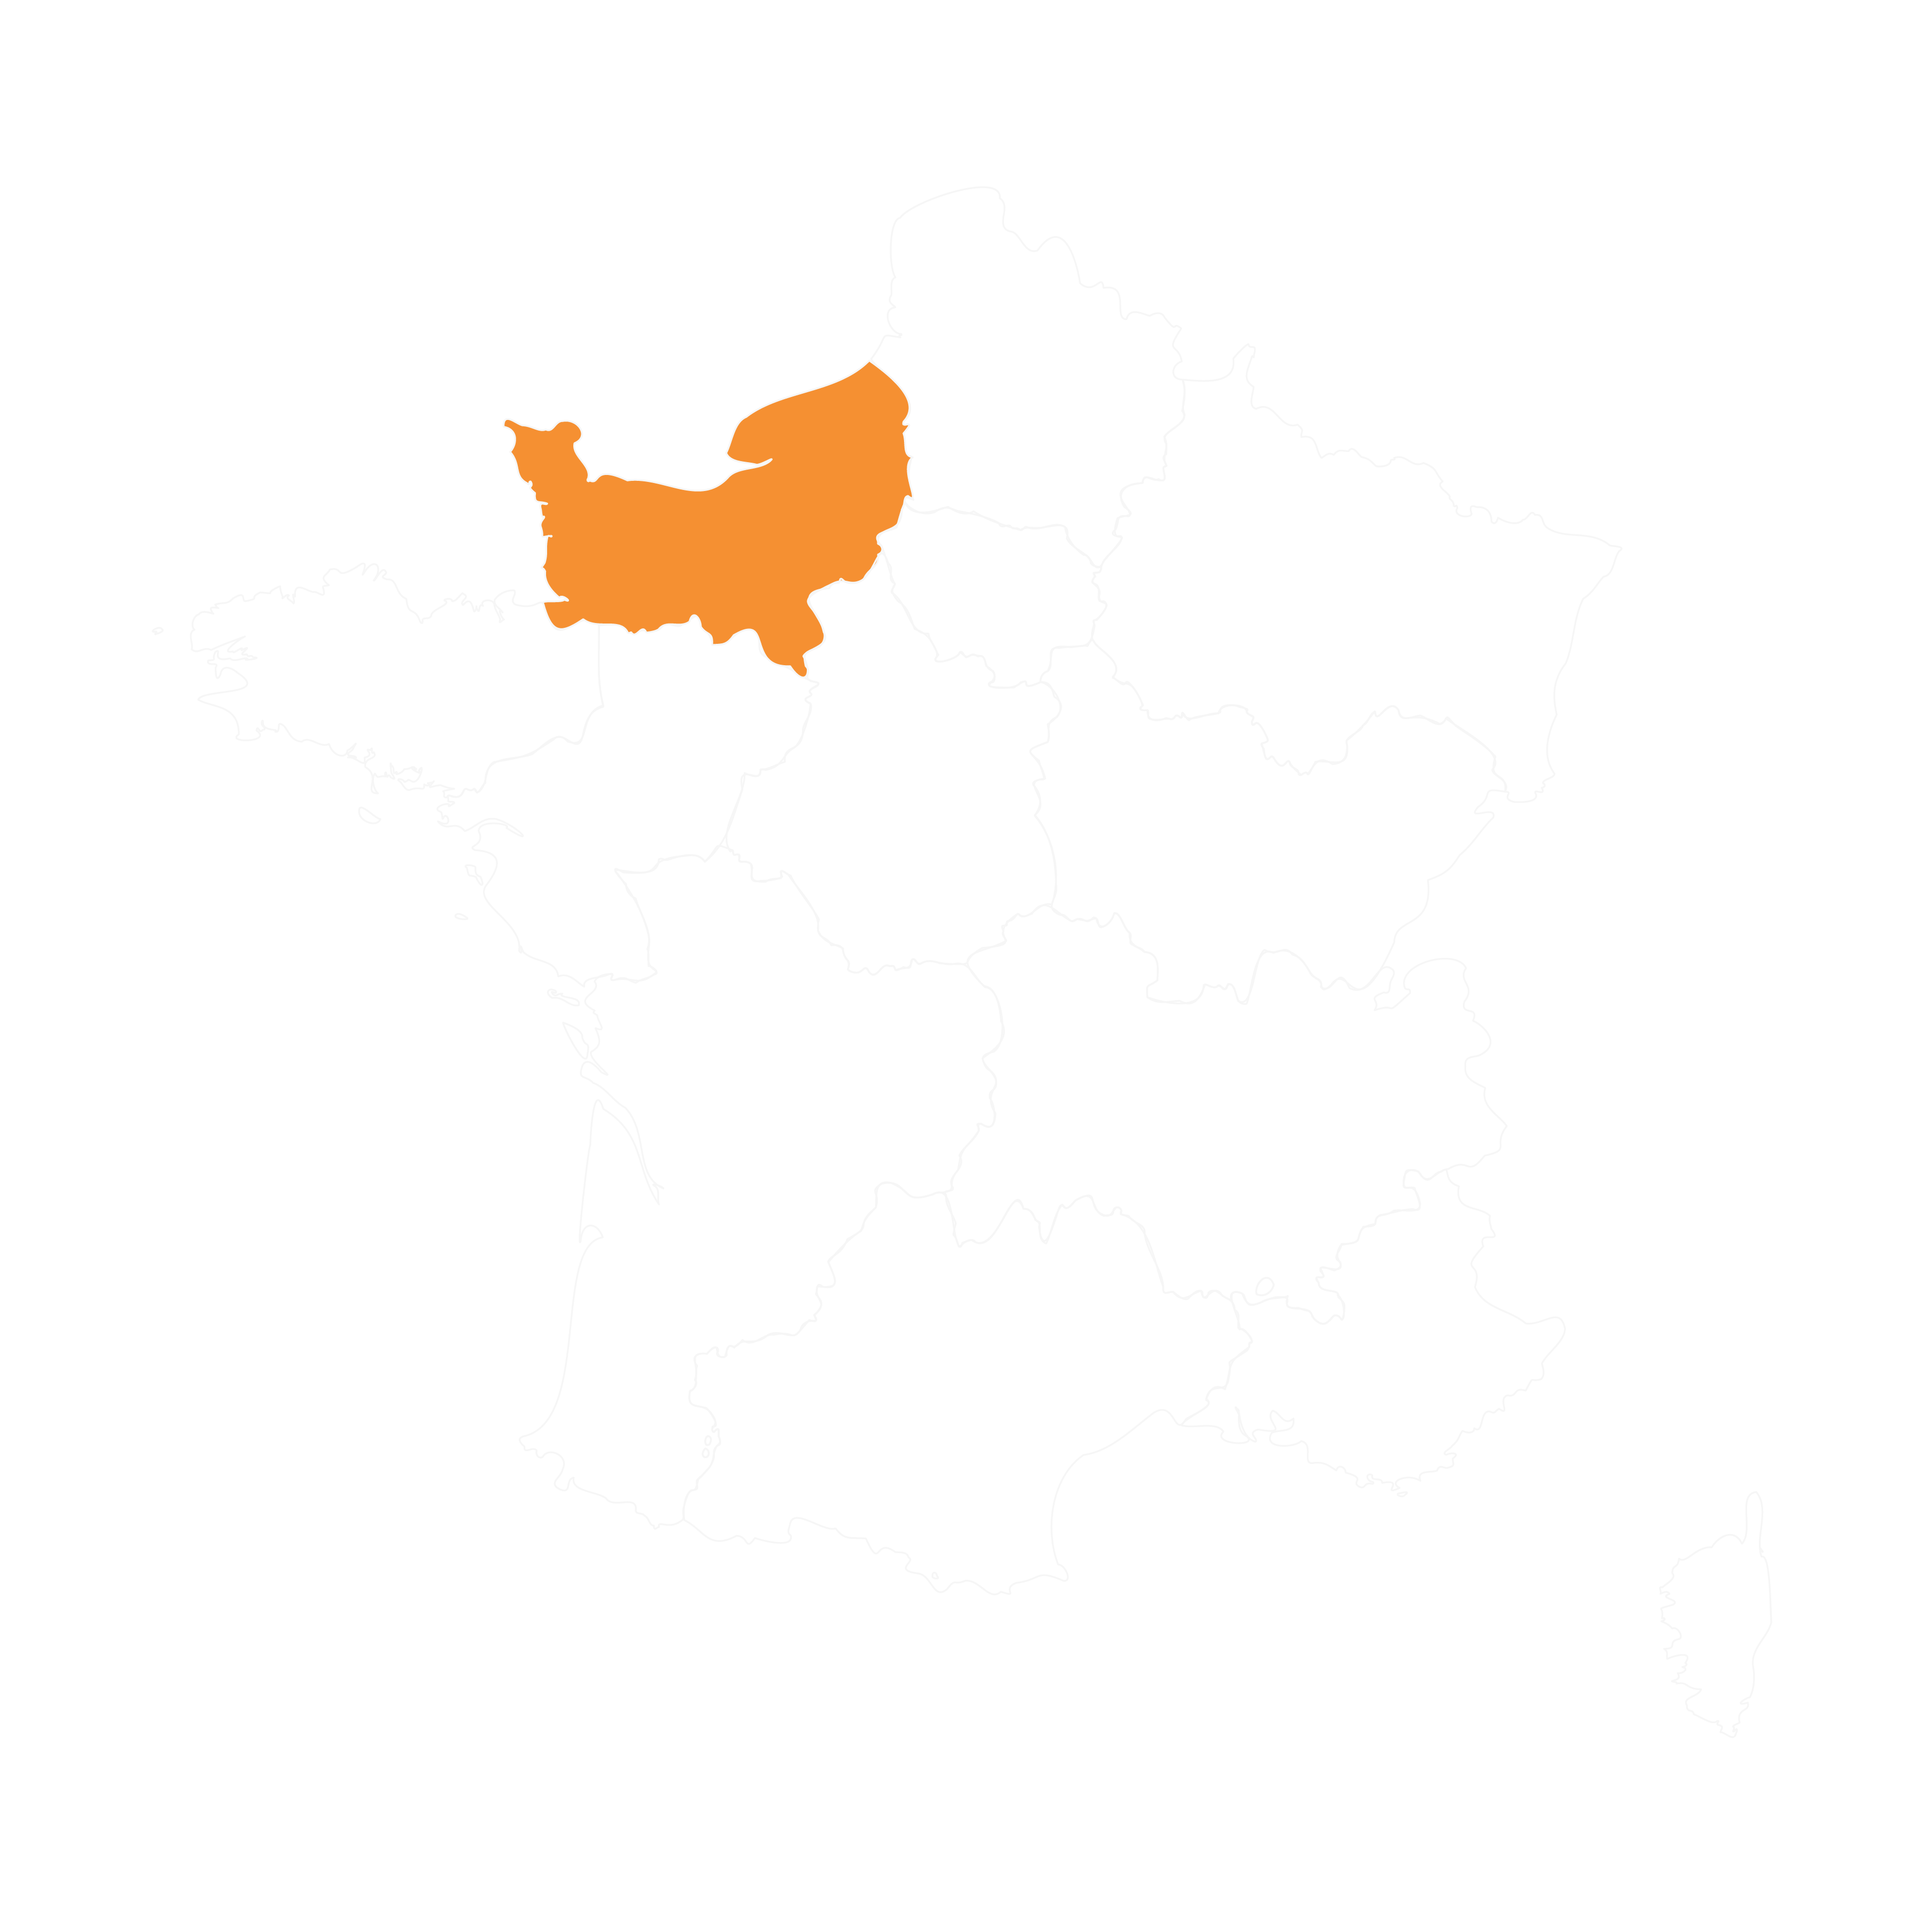
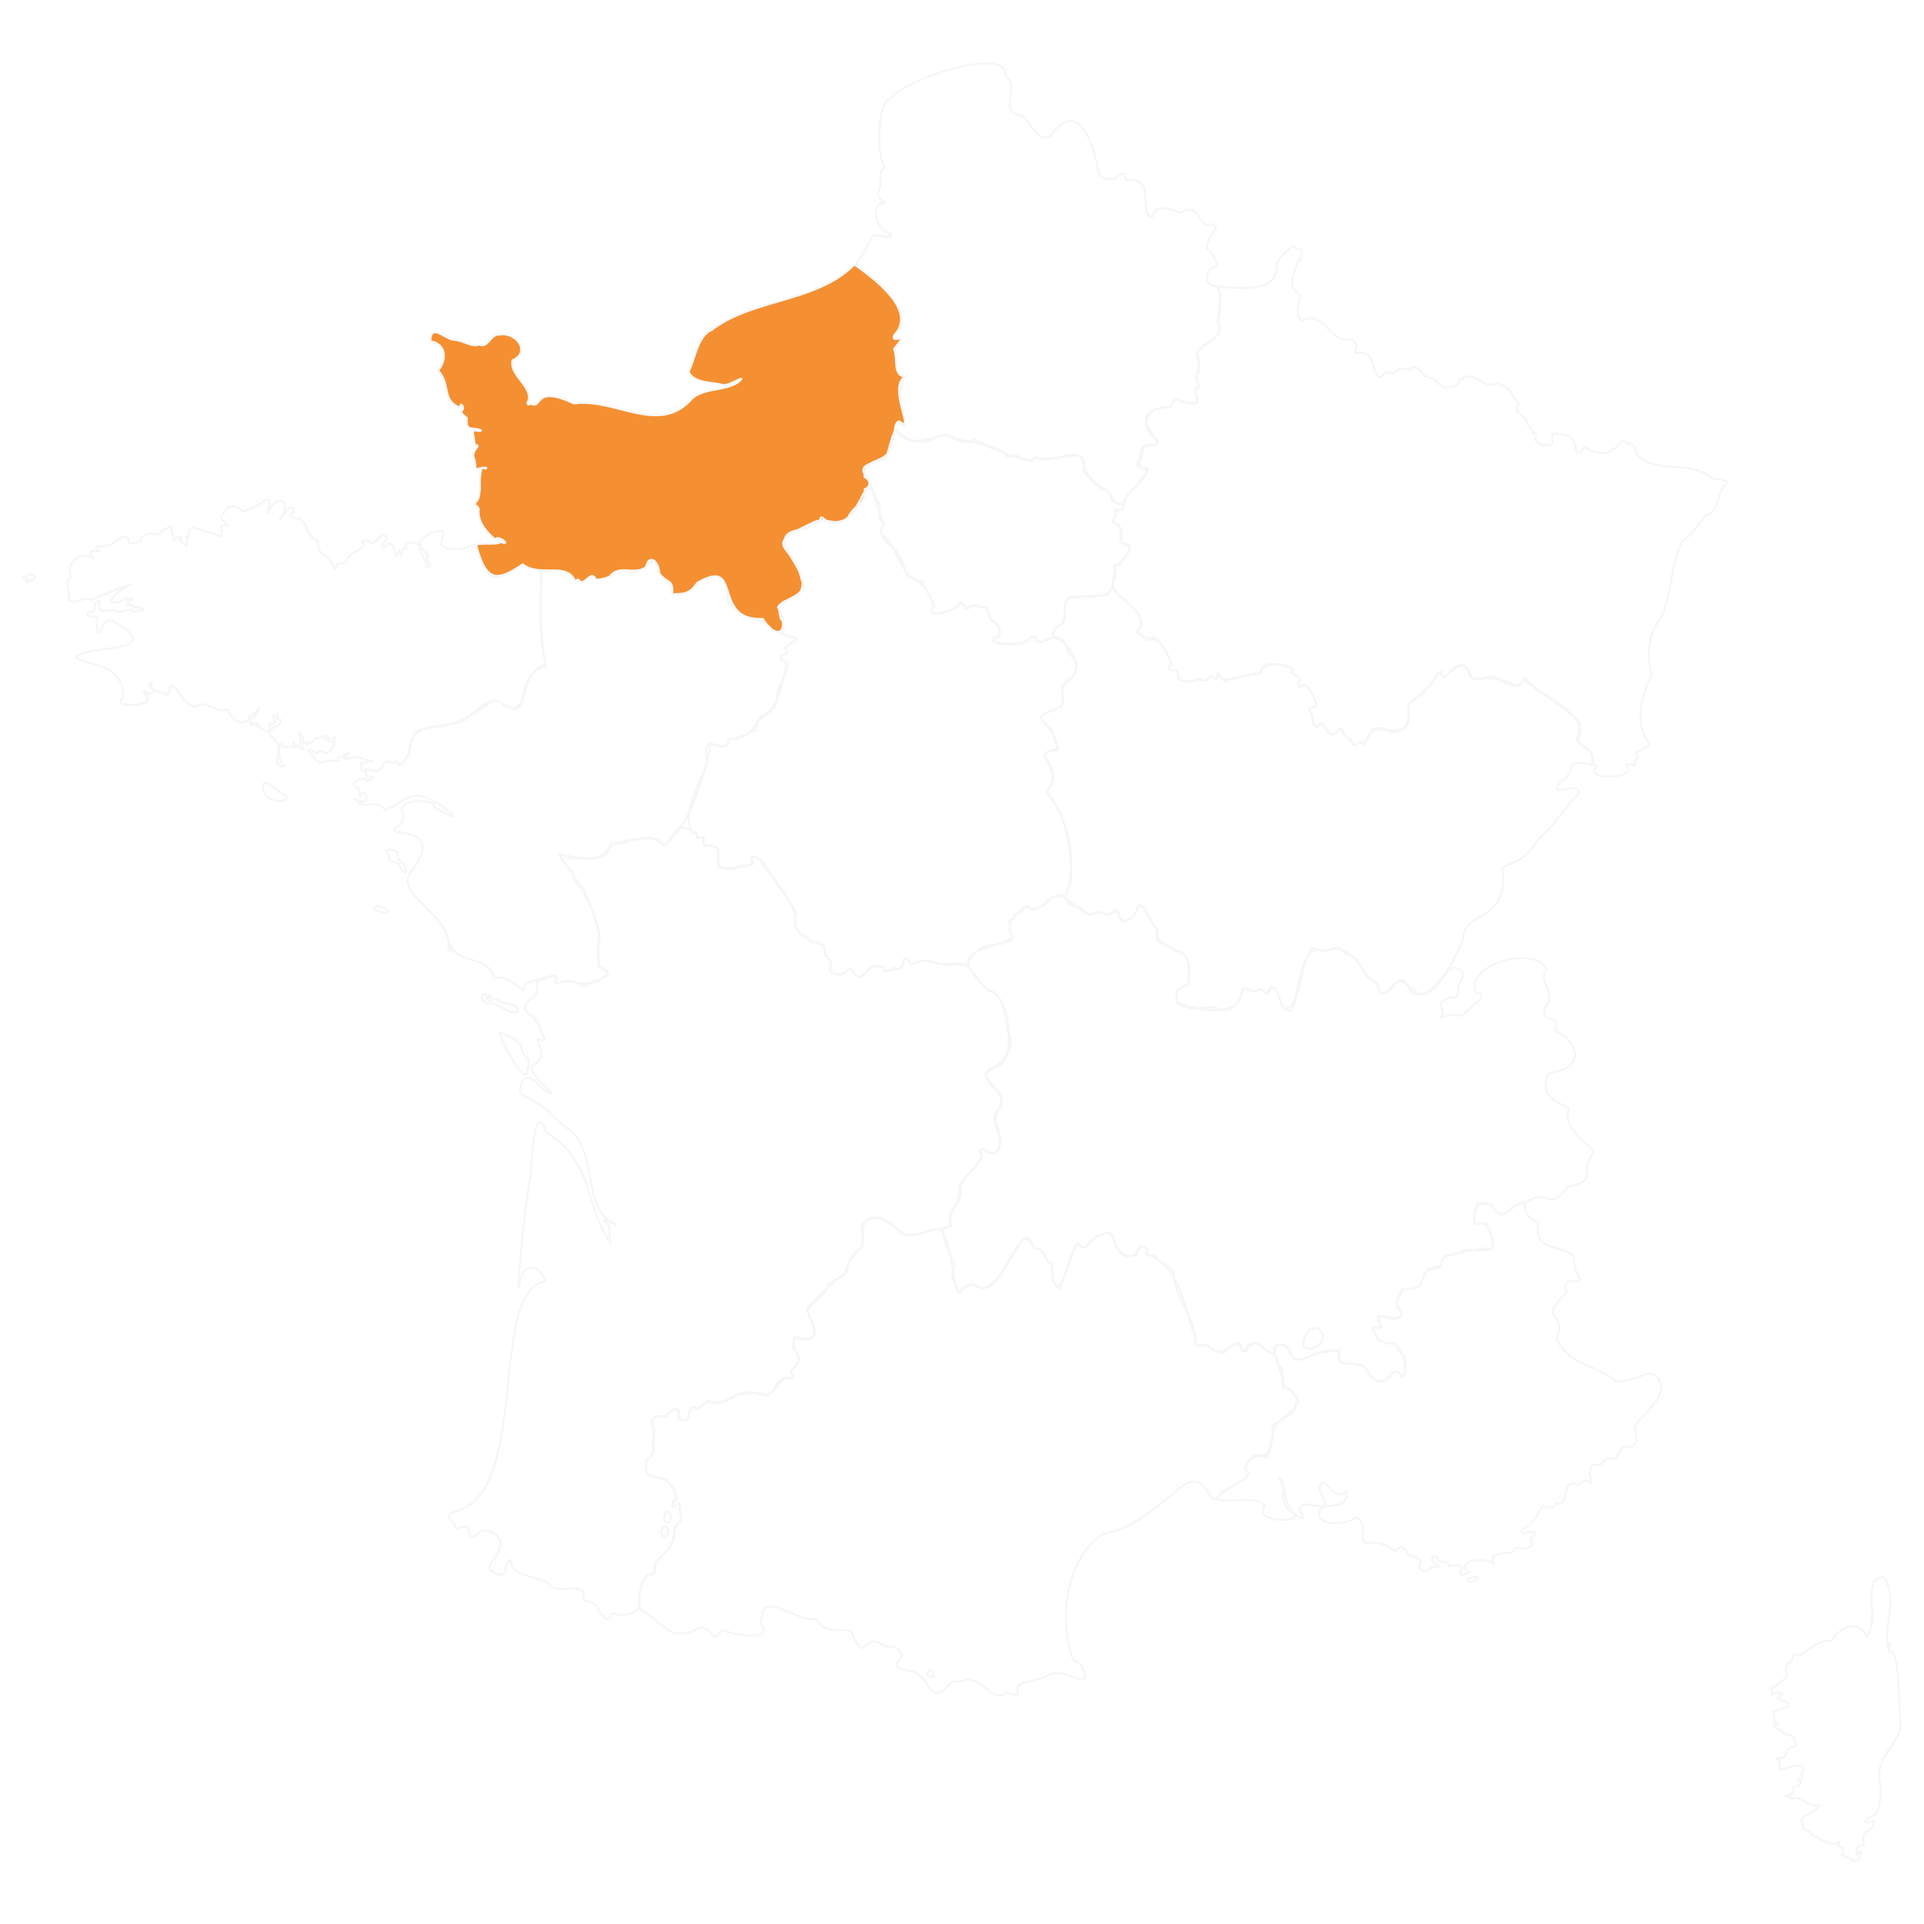
Solide Basis

Changed region(s): [[0.2177, 0.1244, 0.4976, 0.3421]]

diff --git a/styling/style.css b/styling/style.css
@@ -31,9 +31,6 @@
 
 html {
     scroll-behavior: smooth;
-}
-
-body {
     overflow-x: hidden;
 }
 
@@ -67,11 +64,10 @@ p {
     font-family: var(--font-secondary);
     font-style: normal;
     font-stretch: normal;
-    font-weight: 300;
+       font-weight: 300;
     font-size: 20px;
     margin: 0%;
 }
-
 
 
 
@@ -133,7 +129,7 @@ header {
     align-items: center;
     width: var(--width-Sections-line-lg);
     justify-content: space-between;
-    gap: 32px;
+    gap: var(--spacing-lg);
 }
 
 .header-list {
@@ -182,6 +178,11 @@ header {
     border: none;
     outline: none;
     box-shadow: none;
+}
+
+.menu-toggle:focus-visible {
+    outline: 2px solid var(--accent-color);
+    outline-offset: 4px;
 }
 
 .menu-toggle span {
@@ -238,8 +239,8 @@ footer {
     justify-content: center;
     align-items: center;
     width: 100%;
-    margin-top: 40px;
-    margin-bottom: 80px;
+    margin-top: calc(var(--spacing-lg) + var(--spacing-xs));
+    margin-bottom: calc(var(--spacing-xl) + var(--spacing-sm));
     text-align: center;
 
 
@@ -255,9 +256,9 @@ footer {
 
 
 .logo_footer img {
-    margin-top: var(--spacing-xl);
-    height: 40px !important;
-    width: auto !important;
+    margin: var(--spacing-xl) auto 0;
+    height: 40px;
+    width: auto;
 }
 
 .copyright-section {
@@ -274,11 +275,12 @@ footer {
 /* ====================== */
 
 img {
-    width: 100%;
-    height: 100%;
-    object-fit: cover;
-    object-position: center center;
-    overflow: hidden;
+       display: block;
+       width: 100%;
+       height: 100%;
+       object-fit: cover;
+       object-position: center center;
+       overflow: hidden;
 
 }
 
@@ -290,6 +292,7 @@ img {
     width: 100%;
     height: auto;
     gap: var(--spacing-lg);
+    padding: 0 5vw;
 }
 
 
@@ -498,7 +501,6 @@ button:focus,
 button:focus-visible {
     outline: 2px solid var(--accent-color);
     outline-offset: 4px;
-    box-shadow: none;
 }
 
 
@@ -647,6 +649,10 @@ swiper-container.producer-swiper::part(page-bullet-active) {
 
 @media screen and (max-width: 1024px) {
 
+    header {
+        z-index: 1200;
+    }
+
     .header-container,
     .two-col,
     .one-col,
@@ -668,15 +674,16 @@ swiper-container.producer-swiper::part(page-bullet-active) {
         overflow: hidden;
     }
 
-    .header-container {
-        width: var(--width-Sections-line-lg);
-        justify-content: space-between;
-    }
-
     .menu-toggle {
         display: flex;
         margin-left: auto;
         z-index: 1101;
+    }
+
+    body.menu-open .menu-toggle {
+        position: fixed;
+        top: var(--menu-toggle-top, var(--spacing-sm));
+        left: var(--menu-toggle-left, calc(100vw - var(--spacing-md) - 36px));
     }
 
     .header-list {
@@ -722,66 +729,86 @@ swiper-container.producer-swiper::part(page-bullet-active) {
         visibility: visible;
         pointer-events: auto;
     }
-}
+    swiper-container.producer-swiper::before,
+    swiper-container.producer-swiper::after {
+        display: none;
+    }
+
+    main {
+        gap: var(--spacing-lg);
+    }
+
+    .two-col {
+        gap: var(--spacing-lg);
+        grid-template-columns: 1fr;
+    }
+
+
+    .image_container_content {
+        padding-left: 15vw;
+        padding-right: 15vw;
+        padding-bottom: 5vw;
+        padding-top: 5vw;
+    }
+
+    .gallery_wrapper {
+        gap: var(--spacing-md);
+    }
 
 
 
-swiper-container.producer-swiper::before,
-swiper-container.producer-swiper::after {
-    display: none;
-}
+    #Craft_Tradition>#handwerk {
+        order: 1;
+    }
+
+    #Craft_Tradition>.gallery_wrapper {
+        order: 2;
+    }
+
+    #Craft_Tradition>#tradition {
+        order: 3;
+        width: 100%;
+        border-top: 1px solid var(--secondary-color);
+        padding-top: var(--spacing-xl);
+    }
 
 
-@media screen and (max-width: 1024px) {
-
-
-
-main {
-    gap: var(--spacing-lg);
-}
-
-.two-col {
-    gap: var(--spacing-lg);
-    grid-template-columns: 1fr;
-}
-
-
-.image_container_content {
-    padding-left: 15vw;
-    padding-right: 15vw;
-    padding-bottom: 5vw;
-    padding-top: 5vw;
-}
-
-.gallery_wrapper {
-    gap: var(--spacing-md);
-}
-
-
-
-#Craft_Tradition>#handwerk {
-    order: 1;
-}
-
-#Craft_Tradition>.gallery_wrapper {
-    order: 2;
-}
-
-#Craft_Tradition>#tradition {
-    order: 3;
-    width: 100%;
-    border-top: 1px solid var(--secondary-color);
-    padding-top: var(--spacing-xl);
-}
-
-
-.two-col.reverse> :first-child {
-    order: 0;
-}
+    .two-col.reverse> :first-child {
+        order: 0;
+    }
 
 }
 
 @media screen and (max-width: 768px) {
+
+    .header-container,
+    .two-col,
+    .one-col,
+    .divider {
+        width: calc(100% - (var(--spacing-sm) * 2));
+    }
+
+    .header-list {
+        justify-content: flex-start;
+        align-items: stretch;
+        gap: var(--spacing-md);
+        padding: calc(var(--spacing-xl) + var(--spacing-lg)) var(--spacing-sm) var(--spacing-lg);
+    }
+
+    .header-list a {
+        font-size: 24px;
+    }
+
+    main {
+        gap: var(--spacing-md);
+    }
+
+    .image_container_content {
+        padding-left: var(--spacing-sm);
+        padding-right: var(--spacing-sm);
+        padding-bottom: var(--spacing-sm);
+        padding-top: var(--spacing-sm);
+    }
 
     h1 {
         font-size: 32px;
@@ -811,12 +838,12 @@ main {
     width: 100%;
     margin: 0;
     gap: var(--spacing-sm);
-     padding: 0px;
+     padding: 0;
 }
 
 
 .Explore_image{
- padding: 0px;
+ padding: 0;
 
 }
     button {

diff --git a/index.html b/index.html
@@ -322,8 +322,21 @@
       };
 
       menuToggle.addEventListener('click', () => {
+        const isOpening = !document.body.classList.contains('menu-open');
+
+        if (isOpening) {
+          const rect = menuToggle.getBoundingClientRect();
+          menuToggle.style.setProperty('--menu-toggle-top', `${rect.top}px`);
+          menuToggle.style.setProperty('--menu-toggle-left', `${rect.left}px`);
+        }
+
         const isOpen = document.body.classList.toggle('menu-open');
         menuToggle.setAttribute('aria-expanded', String(isOpen));
+
+        if (!isOpen) {
+          menuToggle.style.removeProperty('--menu-toggle-top');
+          menuToggle.style.removeProperty('--menu-toggle-left');
+        }
       });
 
       headerList.querySelectorAll('a').forEach((link) => {
